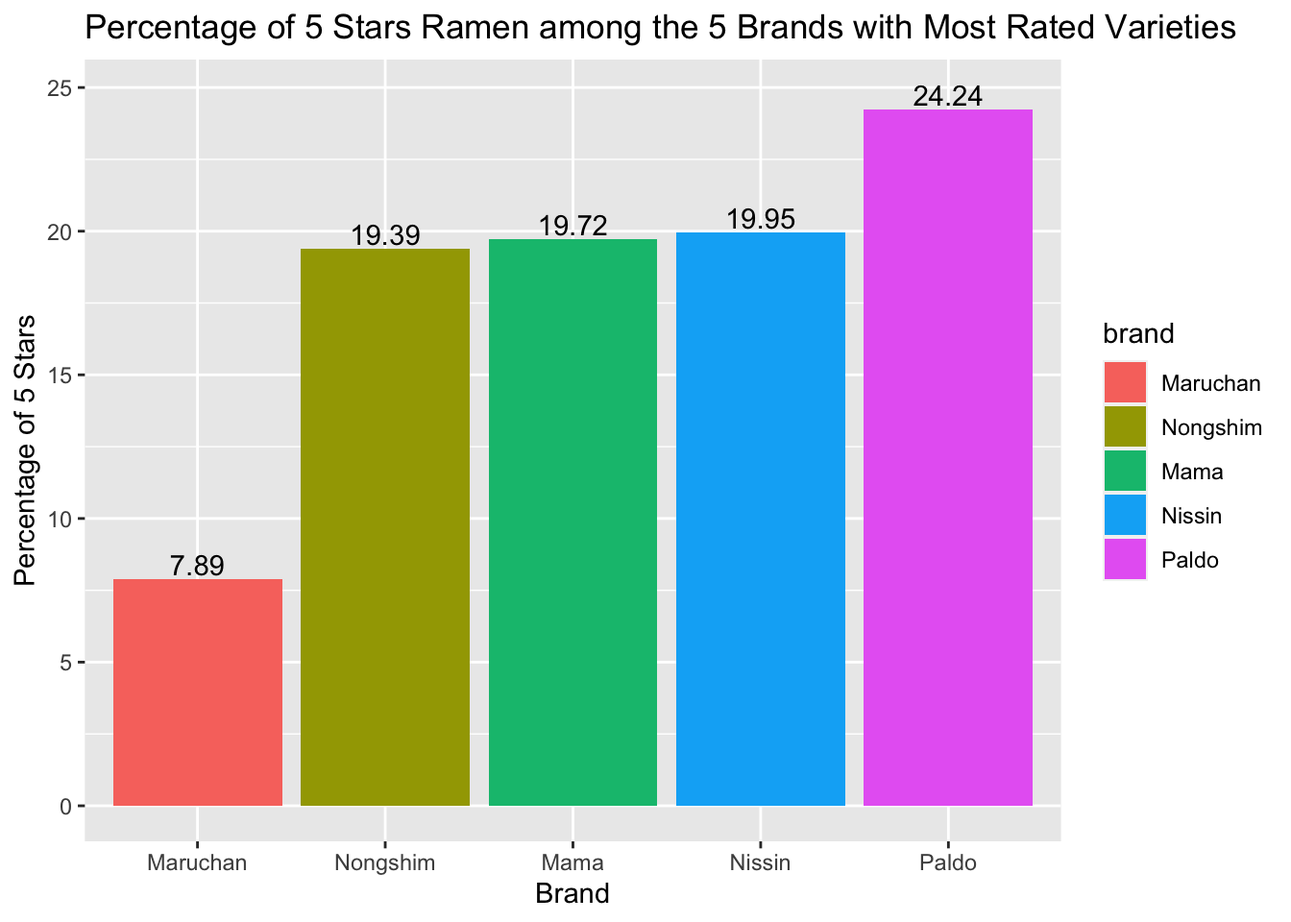
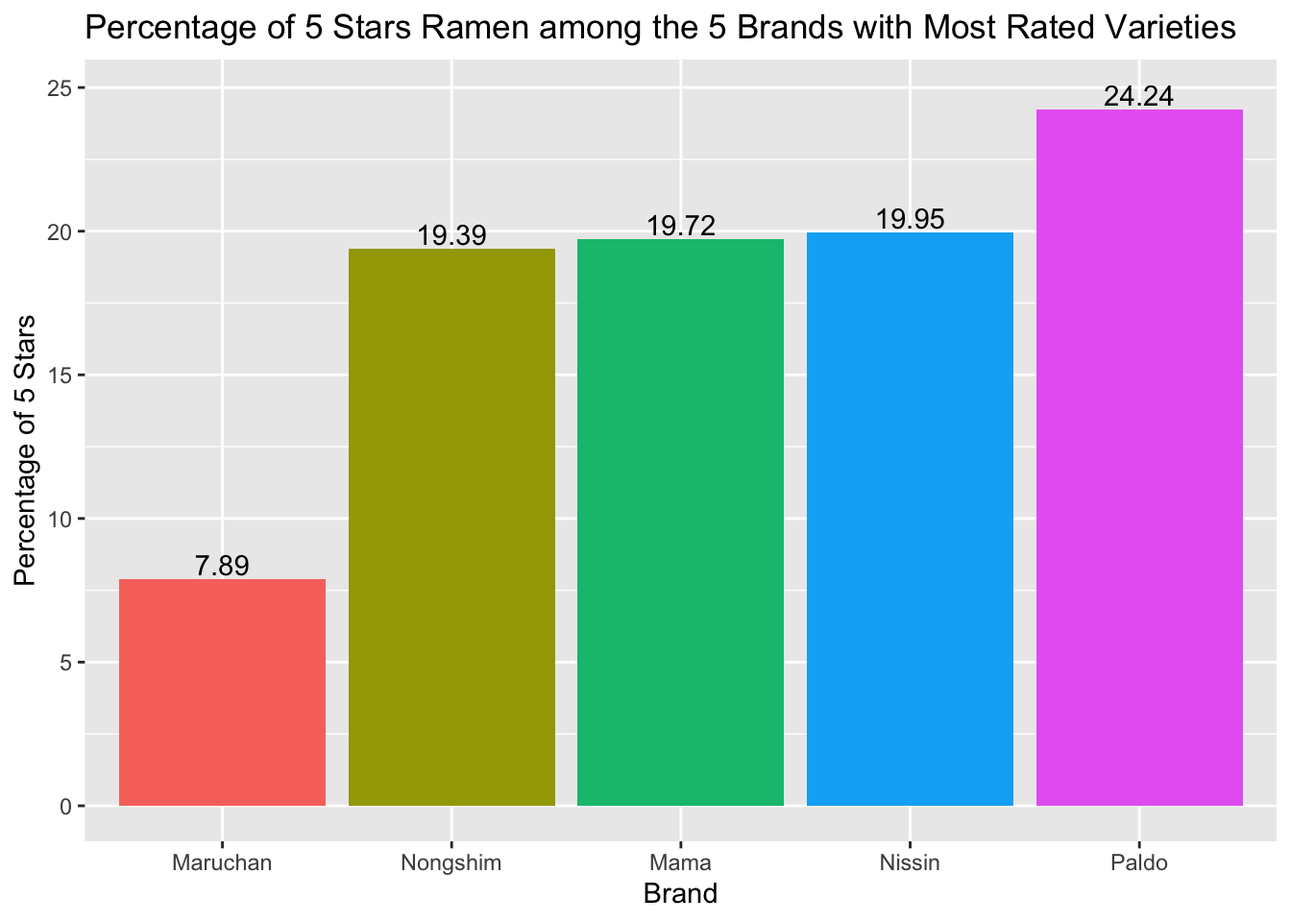
remove legends from the last two plots in brand page and rebuild

diff --git a/rating_by_brand.html b/rating_by_brand.html
@@ -404,8 +404,8 @@ div.tocify {
 </div>
 <div id="brands-with-most-rated-varieties" class="section level2">
 <h2>5 Brands with Most Rated Varieties</h2>
-<div id="htmlwidget-aca072aaa123e21b1e34" style="width:672px;height:480px;" class="plotly html-widget"></div>
-<script type="application/json" data-for="htmlwidget-aca072aaa123e21b1e34">{"x":{"visdat":{"a0930c877dd":["function () ","plotlyVisDat"]},"cur_data":"a0930c877dd","attrs":{"a0930c877dd":{"x":{},"y":{},"text":{},"marker":{"color":"viridis","line":{"color":"white","width":1.5}},"color":{},"alpha_stroke":1,"sizes":[10,100],"spans":[1,20],"type":"bar"}},"layout":{"margin":{"b":40,"l":60,"t":25,"r":10},"title":"5 Ramen Brands with Most Rated Varieties","xaxis":{"domain":[0,1],"automargin":true,"title":"Brand","type":"category","categoryorder":"array","categoryarray":["Paldo","Mama","Maruchan","Nongshim","Nissin","1 To 3 Noodles","7 Select","7 Select/Nissin","A-One","A-Sha Dry Noodle","A1","ABC","Acecook","Adabi","Ah Lai","Ajinatori","Amianda","Amino","Annie Chun's","Aroi","Asia Gold","Asian Thai Foods","Authentically Asian","Azami","Baijia","Baixiang Noodles","Baltix","Bamee","Batchelors","Binh Tay","Bon Go Jang","Bonasia","Boss","Campbell's","Cap Atoom Bulan","CarJEN","Chaudhary's Wai Wai","Chencun","Chering Chang","Chewy","Chikara","China Best","Ching's Secret","Chorip Dong","ChoripDong","Choumama","Chuan Wei Wang","Cintan","CJ CheilJedang","Conimex","Crystal Noodle","Curry Prince","Daddy","Daifuku","Daikoku","Daraz","Deshome","Doll","Dongwon","Dr. McDougall's","Dragonfly","Dream Kitchen","E-mi","E-Zee","Eat & Go","Econsave","Emart","Fantastic","Farmer's Heart","Fashion Food","Fashion Foods","FMF","Foodmon","Forest Noodles","Fortune","Four Seas","Fu Chang Chinese Noodle Company","Fuji Mengyo","Fujiwara","Fuku","GaGa","Gau Do","Gefen","GGE","Global Inspiration","Goku Uma","Goku-Uma","Golden Mie","Golden Wheat","Golden Wonder","Gomex","Good Tto Leu Foods","Great Value","GreeNoodle","GS25","Guava Story","Haioreum","Han's South Korea","Hankow","Hao Way","Happy Cook","Happy Family","Healtimie","Hi-Myon","Higashi","Higashimaru","HoMyeonDang","Hosoonyi","Hsin Tung Yang","Hua Feng","Hua Feng Noodle Expert","Ibumie","IbuRamen","ICA","Ikeda Shoku","iMee","Indomie","iNoodle","Ishimaru","Itomen","Itsuki","J.J.","Jackpot Teriyaki","JFC","Jingqi","JML","Just Way","Kabuto Noodles","Kailo","Kamfen","Kang Shi Fu","Katoz","Kiki Noodle","Kim Ve Wong","Kim's Bowl","Kimura","Kin-Dee","Knorr","Ko-Lee","Koh Thai","Koka","KOKA","Komforte Chockolates","Koyo","Kumamoto","Kuriki","La Fonte","La Moderna","Lee Fah Mee","Lele","Liang Cheng Mai","Lipton","Lishan","Lishan Food Manufacturing","Little Cook","Liu Quan","Long Jun Hang","Long Kow","Lotus Foods","Love Cook","Lucky Me!","Maggi","Maitri","MAMA","Mama Pat's","Mamee","Marutai","Master Kong","Mee Jang","Men-Sunaoshi","Menraku","Mexi-Ramen","Mi E-Zee","Mi Sedaap","Mie Sedaap","Migawon","Miliket","Miracle Noodle","Mitoku","Mom's Dry Noodle","Morre","Mr. Lee's Noodles","Mr. Noodles","Mr. Udon","Mug Shot","Mum Ngon","MyKuali","Myojo","MyOri","Nagao Noodle","Nagatanien","Nakaya Shouten","Nan Hsing","Nan Jie Cun","Nanyang Chef","New Touch","New Way","No Name","Noah Foods","Noodle Time","Nyor Nyar","O Sung","Ogasawara","Ohsung","Omachi","One Dish Asia","Oni Hot Pot","ORee Garden","Osaka Ramen","Ottogi","Oyatsu","Paldo Vina","Pama","Pamana","Papa","Patanjali","Payless","Peyang","Pirkka","Plats Du Chef","Pop Bihun","Pot Noodle","Pran","Premiere","President","President Rice","Prima","Prima Taste","Pringles","Pulmuone","Q","Qin Zong","Quickchow","Rhee Bros Assi","Right Foods","Ripe'n'Dry","Rocket Brand","Roland","Royal Umbrella","Ruski","S&S","Sahmyook","Saigon Ve Wong","Sainsbury's","Saji","Sakura Noodle","Sakurai","Sakurai Foods","Salam Mie","Samurai Ramen","Samyang","Samyang Foods","Sanpo","Sanrio","Sanyo Foods","Sao Tao","Sapporo Ichiban","Sarimi","Sau Tao","Sawadee","Sempio","Seven & I","Seven-Eleven","Shan","Shirakiku","Sichuan Baijia","Sichuan Guangyou","Singa-Me","Six Fortune","Smack","Snapdragon","Sokensha","Song Hak","Souper","Springlife","Star Anise Foods","Sugakiya Foods","Suimin","Sun Noodle","Sunlee","Sunlight","Sunny Maid","Super","Super Bihun","SuperMi","Sura","Sutah","Tablemark","Takamori","Takamori Kosan","Tao Kae Noi","Tasty Bite","Tayho","Ten-In","Teriyaki Time","Tesco","Thai Chef","Thai Choice","Thai Kitchen","Thai Pavilion","Thai Smile","The Bridge","The Kitchen Food","The Ramen Rater Select","Thien Houng Foods","Tiger","Tiger Tiger","Tokachimen Koubou","Tokushima Seifun","Tokyo Noodle","Torishi","Tradition","TRDP","Trident","Tropicana Slim","Tseng Noodles","TTL","Tung-I","Uncle Sun","Uni-President","Unif","Unif / Tung-I","Unif Tung-I","Unif-100","United","Unox","Unzen","Urban Noodle","US Canning","Ve Wong","Vedan","Vifon","Vina Acecook","Vit's","Wai Wai","Wang","Weh Lih","Wei Chuan","Wei Lih","Wei Wei","Westbrae","Western Family","World O' Noodle","Wu Mu","Wu-Mu","Wugudaochang","Xiao Ban Mian","Xiuhe","Yamachan","Yamadai","Yamamori","Yamamoto","Yum Yum","Yum-Mie","Zow Zow"]},"yaxis":{"domain":[0,1],"automargin":true,"title":"Number of Varieties"},"hovermode":"closest","showlegend":true},"source":"A","config":{"showSendToCloud":false},"data":[{"x":["Paldo"],"y":[66],"text":"Brand: Paldo<br />Number of varieties: 66","marker":{"color":"viridis","line":{"color":"white","width":1.5}},"type":"bar","name":"Paldo","textfont":{"color":"rgba(102,194,165,1)"},"error_y":{"color":"rgba(102,194,165,1)"},"error_x":{"color":"rgba(102,194,165,1)"},"xaxis":"x","yaxis":"y","frame":null},{"x":["Mama"],"y":[71],"text":"Brand: Mama<br />Number of varieties: 71","marker":{"color":"viridis","line":{"color":"white","width":1.5}},"type":"bar","name":"Mama","textfont":{"color":"rgba(107,193,164,1)"},"error_y":{"color":"rgba(107,193,164,1)"},"error_x":{"color":"rgba(107,193,164,1)"},"xaxis":"x","yaxis":"y","frame":null},{"x":["Maruchan"],"y":[76],"text":"Brand: Maruchan<br />Number of varieties: 76","marker":{"color":"viridis","line":{"color":"white","width":1.5}},"type":"bar","name":"Maruchan","textfont":{"color":"rgba(113,192,162,1)"},"error_y":{"color":"rgba(113,192,162,1)"},"error_x":{"color":"rgba(113,192,162,1)"},"xaxis":"x","yaxis":"y","frame":null},{"x":["Nongshim"],"y":[98],"text":"Brand: Nongshim<br />Number of varieties: 98","marker":{"color":"viridis","line":{"color":"white","width":1.5}},"type":"bar","name":"Nongshim","textfont":{"color":"rgba(117,192,161,1)"},"error_y":{"color":"rgba(117,192,161,1)"},"error_x":{"color":"rgba(117,192,161,1)"},"xaxis":"x","yaxis":"y","frame":null},{"x":["Nissin"],"y":[381],"text":"Brand: Nissin<br />Number of varieties: 381","marker":{"color":"viridis","line":{"color":"white","width":1.5}},"type":"bar","name":"Nissin","textfont":{"color":"rgba(122,191,160,1)"},"error_y":{"color":"rgba(122,191,160,1)"},"error_x":{"color":"rgba(122,191,160,1)"},"xaxis":"x","yaxis":"y","frame":null}],"highlight":{"on":"plotly_click","persistent":false,"dynamic":false,"selectize":false,"opacityDim":0.2,"selected":{"opacity":1},"debounce":0},"shinyEvents":["plotly_hover","plotly_click","plotly_selected","plotly_relayout","plotly_brushed","plotly_brushing","plotly_clickannotation","plotly_doubleclick","plotly_deselect","plotly_afterplot","plotly_sunburstclick"],"base_url":"https://plot.ly"},"evals":[],"jsHooks":[]}</script>
+<div id="htmlwidget-3ba4ea1fc0b1f9840647" style="width:672px;height:480px;" class="plotly html-widget"></div>
+<script type="application/json" data-for="htmlwidget-3ba4ea1fc0b1f9840647">{"x":{"visdat":{"bce3f54b81c":["function () ","plotlyVisDat"]},"cur_data":"bce3f54b81c","attrs":{"bce3f54b81c":{"x":{},"y":{},"text":{},"marker":{"color":"viridis","line":{"color":"white","width":1.5}},"color":{},"alpha_stroke":1,"sizes":[10,100],"spans":[1,20],"type":"bar"}},"layout":{"margin":{"b":40,"l":60,"t":25,"r":10},"title":"5 Ramen Brands with Most Rated Varieties","xaxis":{"domain":[0,1],"automargin":true,"title":"Brand","type":"category","categoryorder":"array","categoryarray":["Paldo","Mama","Maruchan","Nongshim","Nissin","1 To 3 Noodles","7 Select","7 Select/Nissin","A-One","A-Sha Dry Noodle","A1","ABC","Acecook","Adabi","Ah Lai","Ajinatori","Amianda","Amino","Annie Chun's","Aroi","Asia Gold","Asian Thai Foods","Authentically Asian","Azami","Baijia","Baixiang Noodles","Baltix","Bamee","Batchelors","Binh Tay","Bon Go Jang","Bonasia","Boss","Campbell's","Cap Atoom Bulan","CarJEN","Chaudhary's Wai Wai","Chencun","Chering Chang","Chewy","Chikara","China Best","Ching's Secret","Chorip Dong","ChoripDong","Choumama","Chuan Wei Wang","Cintan","CJ CheilJedang","Conimex","Crystal Noodle","Curry Prince","Daddy","Daifuku","Daikoku","Daraz","Deshome","Doll","Dongwon","Dr. McDougall's","Dragonfly","Dream Kitchen","E-mi","E-Zee","Eat & Go","Econsave","Emart","Fantastic","Farmer's Heart","Fashion Food","Fashion Foods","FMF","Foodmon","Forest Noodles","Fortune","Four Seas","Fu Chang Chinese Noodle Company","Fuji Mengyo","Fujiwara","Fuku","GaGa","Gau Do","Gefen","GGE","Global Inspiration","Goku Uma","Goku-Uma","Golden Mie","Golden Wheat","Golden Wonder","Gomex","Good Tto Leu Foods","Great Value","GreeNoodle","GS25","Guava Story","Haioreum","Han's South Korea","Hankow","Hao Way","Happy Cook","Happy Family","Healtimie","Hi-Myon","Higashi","Higashimaru","HoMyeonDang","Hosoonyi","Hsin Tung Yang","Hua Feng","Hua Feng Noodle Expert","Ibumie","IbuRamen","ICA","Ikeda Shoku","iMee","Indomie","iNoodle","Ishimaru","Itomen","Itsuki","J.J.","Jackpot Teriyaki","JFC","Jingqi","JML","Just Way","Kabuto Noodles","Kailo","Kamfen","Kang Shi Fu","Katoz","Kiki Noodle","Kim Ve Wong","Kim's Bowl","Kimura","Kin-Dee","Knorr","Ko-Lee","Koh Thai","Koka","KOKA","Komforte Chockolates","Koyo","Kumamoto","Kuriki","La Fonte","La Moderna","Lee Fah Mee","Lele","Liang Cheng Mai","Lipton","Lishan","Lishan Food Manufacturing","Little Cook","Liu Quan","Long Jun Hang","Long Kow","Lotus Foods","Love Cook","Lucky Me!","Maggi","Maitri","MAMA","Mama Pat's","Mamee","Marutai","Master Kong","Mee Jang","Men-Sunaoshi","Menraku","Mexi-Ramen","Mi E-Zee","Mi Sedaap","Mie Sedaap","Migawon","Miliket","Miracle Noodle","Mitoku","Mom's Dry Noodle","Morre","Mr. Lee's Noodles","Mr. Noodles","Mr. Udon","Mug Shot","Mum Ngon","MyKuali","Myojo","MyOri","Nagao Noodle","Nagatanien","Nakaya Shouten","Nan Hsing","Nan Jie Cun","Nanyang Chef","New Touch","New Way","No Name","Noah Foods","Noodle Time","Nyor Nyar","O Sung","Ogasawara","Ohsung","Omachi","One Dish Asia","Oni Hot Pot","ORee Garden","Osaka Ramen","Ottogi","Oyatsu","Paldo Vina","Pama","Pamana","Papa","Patanjali","Payless","Peyang","Pirkka","Plats Du Chef","Pop Bihun","Pot Noodle","Pran","Premiere","President","President Rice","Prima","Prima Taste","Pringles","Pulmuone","Q","Qin Zong","Quickchow","Rhee Bros Assi","Right Foods","Ripe'n'Dry","Rocket Brand","Roland","Royal Umbrella","Ruski","S&S","Sahmyook","Saigon Ve Wong","Sainsbury's","Saji","Sakura Noodle","Sakurai","Sakurai Foods","Salam Mie","Samurai Ramen","Samyang","Samyang Foods","Sanpo","Sanrio","Sanyo Foods","Sao Tao","Sapporo Ichiban","Sarimi","Sau Tao","Sawadee","Sempio","Seven & I","Seven-Eleven","Shan","Shirakiku","Sichuan Baijia","Sichuan Guangyou","Singa-Me","Six Fortune","Smack","Snapdragon","Sokensha","Song Hak","Souper","Springlife","Star Anise Foods","Sugakiya Foods","Suimin","Sun Noodle","Sunlee","Sunlight","Sunny Maid","Super","Super Bihun","SuperMi","Sura","Sutah","Tablemark","Takamori","Takamori Kosan","Tao Kae Noi","Tasty Bite","Tayho","Ten-In","Teriyaki Time","Tesco","Thai Chef","Thai Choice","Thai Kitchen","Thai Pavilion","Thai Smile","The Bridge","The Kitchen Food","The Ramen Rater Select","Thien Houng Foods","Tiger","Tiger Tiger","Tokachimen Koubou","Tokushima Seifun","Tokyo Noodle","Torishi","Tradition","TRDP","Trident","Tropicana Slim","Tseng Noodles","TTL","Tung-I","Uncle Sun","Uni-President","Unif","Unif / Tung-I","Unif Tung-I","Unif-100","United","Unox","Unzen","Urban Noodle","US Canning","Ve Wong","Vedan","Vifon","Vina Acecook","Vit's","Wai Wai","Wang","Weh Lih","Wei Chuan","Wei Lih","Wei Wei","Westbrae","Western Family","World O' Noodle","Wu Mu","Wu-Mu","Wugudaochang","Xiao Ban Mian","Xiuhe","Yamachan","Yamadai","Yamamori","Yamamoto","Yum Yum","Yum-Mie","Zow Zow"]},"yaxis":{"domain":[0,1],"automargin":true,"title":"Number of Varieties"},"hovermode":"closest","showlegend":true},"source":"A","config":{"showSendToCloud":false},"data":[{"x":["Paldo"],"y":[66],"text":"Brand: Paldo<br />Number of varieties: 66","marker":{"color":"viridis","line":{"color":"white","width":1.5}},"type":"bar","name":"Paldo","textfont":{"color":"rgba(102,194,165,1)"},"error_y":{"color":"rgba(102,194,165,1)"},"error_x":{"color":"rgba(102,194,165,1)"},"xaxis":"x","yaxis":"y","frame":null},{"x":["Mama"],"y":[71],"text":"Brand: Mama<br />Number of varieties: 71","marker":{"color":"viridis","line":{"color":"white","width":1.5}},"type":"bar","name":"Mama","textfont":{"color":"rgba(107,193,164,1)"},"error_y":{"color":"rgba(107,193,164,1)"},"error_x":{"color":"rgba(107,193,164,1)"},"xaxis":"x","yaxis":"y","frame":null},{"x":["Maruchan"],"y":[76],"text":"Brand: Maruchan<br />Number of varieties: 76","marker":{"color":"viridis","line":{"color":"white","width":1.5}},"type":"bar","name":"Maruchan","textfont":{"color":"rgba(113,192,162,1)"},"error_y":{"color":"rgba(113,192,162,1)"},"error_x":{"color":"rgba(113,192,162,1)"},"xaxis":"x","yaxis":"y","frame":null},{"x":["Nongshim"],"y":[98],"text":"Brand: Nongshim<br />Number of varieties: 98","marker":{"color":"viridis","line":{"color":"white","width":1.5}},"type":"bar","name":"Nongshim","textfont":{"color":"rgba(117,192,161,1)"},"error_y":{"color":"rgba(117,192,161,1)"},"error_x":{"color":"rgba(117,192,161,1)"},"xaxis":"x","yaxis":"y","frame":null},{"x":["Nissin"],"y":[381],"text":"Brand: Nissin<br />Number of varieties: 381","marker":{"color":"viridis","line":{"color":"white","width":1.5}},"type":"bar","name":"Nissin","textfont":{"color":"rgba(122,191,160,1)"},"error_y":{"color":"rgba(122,191,160,1)"},"error_x":{"color":"rgba(122,191,160,1)"},"xaxis":"x","yaxis":"y","frame":null}],"highlight":{"on":"plotly_click","persistent":false,"dynamic":false,"selectize":false,"opacityDim":0.2,"selected":{"opacity":1},"debounce":0},"shinyEvents":["plotly_hover","plotly_click","plotly_selected","plotly_relayout","plotly_brushed","plotly_brushing","plotly_clickannotation","plotly_doubleclick","plotly_deselect","plotly_afterplot","plotly_sunburstclick"],"base_url":"https://plot.ly"},"evals":[],"jsHooks":[]}</script>
 <p>As shown in the above plot, <em>Nissin</em> is the winner with 381 ramen varieties rated. The second to fifth brands are <em>Nongshim</em>, <em>Maruchan</em>, <em>Mama</em>, and <em>Paldo</em>. Each of them has about 60 to 100 ramen varieties rated.</p>
 <div id="distribution-of-rating-stars" class="section level3">
 <h3>Distribution of Rating Stars</h3>

diff --git a/rating_by_country.html b/rating_by_country.html
@@ -422,8 +422,8 @@ div.tocify {
 <p>From the scatter plot, we can see that the average stars for countries with fewer varieties rated are more diverse and include more extreme values, while those for countries with more varieties rated are more concentrated around or within 3.5 to 4.0.</p>
 <p>Since we believe that we need enough sample size for a meaningful average rating, we’ll focus on countries with 30 or more varieties rated in the following analysis.</p>
 <p>Here is the result!<br />
-(NOTE: Check out the average rating score for each country by moving your mouse over each bar) <div id="htmlwidget-f87fcae7ad846b518938" style="width:672px;height:480px;" class="plotly html-widget"></div>
-<script type="application/json" data-for="htmlwidget-f87fcae7ad846b518938">{"x":{"visdat":{"a09510a4f61":["function () ","plotlyVisDat"]},"cur_data":"a09510a4f61","attrs":{"a09510a4f61":{"x":{},"y":{},"text":{},"color":{},"alpha_stroke":1,"sizes":[10,100],"spans":[1,20],"type":"bar"}},"layout":{"margin":{"b":40,"l":60,"t":25,"r":10},"title":"Average stars for each country with 30 or more varieties rated","xaxis":{"domain":[0,1],"automargin":true,"title":"Country","type":"category","categoryorder":"array","categoryarray":["Canada","UK","Vietnam","Philippines","Thailand","India","USA","China","South Korea","Japan","Indonesia","Singapore","Malaysia","Australia","Bangladesh","Brazil","Cambodia","Colombia","Dubai","Estonia","Fiji","Finland","Germany","Ghana","Holland","Hungary","Mexico","Myanmar","Nepal","Netherlands","Nigeria","Pakistan","Poland","Sarawak","Sweden","United States"]},"yaxis":{"domain":[0,1],"automargin":true,"title":"Average stars"},"hovermode":"closest","showlegend":true},"source":"A","config":{"showSendToCloud":false},"data":[{"x":["Canada"],"y":[2.24],"text":"Country: Canada<br />Average Stars: 2.24","type":"bar","name":"Canada","marker":{"color":"rgba(102,194,165,1)","line":{"color":"rgba(102,194,165,1)"}},"textfont":{"color":"rgba(102,194,165,1)"},"error_y":{"color":"rgba(102,194,165,1)"},"error_x":{"color":"rgba(102,194,165,1)"},"xaxis":"x","yaxis":"y","frame":null},{"x":["UK"],"y":[3],"text":"Country: UK<br />Average Stars: 3","type":"bar","name":"UK","marker":{"color":"rgba(147,186,151,1)","line":{"color":"rgba(147,186,151,1)"}},"textfont":{"color":"rgba(147,186,151,1)"},"error_y":{"color":"rgba(147,186,151,1)"},"error_x":{"color":"rgba(147,186,151,1)"},"xaxis":"x","yaxis":"y","frame":null},{"x":["Vietnam"],"y":[3.19],"text":"Country: Vietnam<br />Average Stars: 3.19","type":"bar","name":"Vietnam","marker":{"color":"rgba(179,176,138,1)","line":{"color":"rgba(179,176,138,1)"}},"textfont":{"color":"rgba(179,176,138,1)"},"error_y":{"color":"rgba(179,176,138,1)"},"error_x":{"color":"rgba(179,176,138,1)"},"xaxis":"x","yaxis":"y","frame":null},{"x":["Philippines"],"y":[3.33],"text":"Country: Philippines<br />Average Stars: 3.33","type":"bar","name":"Philippines","marker":{"color":"rgba(207,166,125,1)","line":{"color":"rgba(207,166,125,1)"}},"textfont":{"color":"rgba(207,166,125,1)"},"error_y":{"color":"rgba(207,166,125,1)"},"error_x":{"color":"rgba(207,166,125,1)"},"xaxis":"x","yaxis":"y","frame":null},{"x":["Thailand"],"y":[3.38],"text":"Country: Thailand<br />Average Stars: 3.38","type":"bar","name":"Thailand","marker":{"color":"rgba(230,155,111,1)","line":{"color":"rgba(230,155,111,1)"}},"textfont":{"color":"rgba(230,155,111,1)"},"error_y":{"color":"rgba(230,155,111,1)"},"error_x":{"color":"rgba(230,155,111,1)"},"xaxis":"x","yaxis":"y","frame":null},{"x":["India"],"y":[3.4],"text":"Country: India<br />Average Stars: 3.4","type":"bar","name":"India","marker":{"color":"rgba(252,141,98,1)","line":{"color":"rgba(252,141,98,1)"}},"textfont":{"color":"rgba(252,141,98,1)"},"error_y":{"color":"rgba(252,141,98,1)"},"error_x":{"color":"rgba(252,141,98,1)"},"xaxis":"x","yaxis":"y","frame":null},{"x":["USA"],"y":[3.46],"text":"Country: USA<br />Average Stars: 3.46","type":"bar","name":"USA","marker":{"color":"rgba(235,145,120,1)","line":{"color":"rgba(235,145,120,1)"}},"textfont":{"color":"rgba(235,145,120,1)"},"error_y":{"color":"rgba(235,145,120,1)"},"error_x":{"color":"rgba(235,145,120,1)"},"xaxis":"x","yaxis":"y","frame":null},{"x":["China"],"y":[3.62],"text":"Country: China<br />Average Stars: 3.62","type":"bar","name":"China","marker":{"color":"rgba(217,150,141,1)","line":{"color":"rgba(217,150,141,1)"}},"textfont":{"color":"rgba(217,150,141,1)"},"error_y":{"color":"rgba(217,150,141,1)"},"error_x":{"color":"rgba(217,150,141,1)"},"xaxis":"x","yaxis":"y","frame":null},{"x":["South Korea"],"y":[3.79],"text":"Country: South Korea<br />Average Stars: 3.79","type":"bar","name":"South Korea","marker":{"color":"rgba(196,153,161,1)","line":{"color":"rgba(196,153,161,1)"}},"textfont":{"color":"rgba(196,153,161,1)"},"error_y":{"color":"rgba(196,153,161,1)"},"error_x":{"color":"rgba(196,153,161,1)"},"xaxis":"x","yaxis":"y","frame":null},{"x":["Japan"],"y":[3.98],"text":"Country: Japan<br />Average Stars: 3.98","type":"bar","name":"Japan","marker":{"color":"rgba(172,157,182,1)","line":{"color":"rgba(172,157,182,1)"}},"textfont":{"color":"rgba(172,157,182,1)"},"error_y":{"color":"rgba(172,157,182,1)"},"error_x":{"color":"rgba(172,157,182,1)"},"xaxis":"x","yaxis":"y","frame":null},{"x":["Indonesia"],"y":[4.07],"text":"Country: Indonesia<br />Average Stars: 4.07","type":"bar","name":"Indonesia","marker":{"color":"rgba(141,160,203,1)","line":{"color":"rgba(141,160,203,1)"}},"textfont":{"color":"rgba(141,160,203,1)"},"error_y":{"color":"rgba(141,160,203,1)"},"error_x":{"color":"rgba(141,160,203,1)"},"xaxis":"x","yaxis":"y","frame":null},{"x":["Singapore"],"y":[4.13],"text":"Country: Singapore<br />Average Stars: 4.13","type":"bar","name":"Singapore","marker":{"color":"rgba(162,157,201,1)","line":{"color":"rgba(162,157,201,1)"}},"textfont":{"color":"rgba(162,157,201,1)"},"error_y":{"color":"rgba(162,157,201,1)"},"error_x":{"color":"rgba(162,157,201,1)"},"xaxis":"x","yaxis":"y","frame":null},{"x":["Malaysia"],"y":[4.15],"text":"Country: Malaysia<br />Average Stars: 4.15","type":"bar","name":"Malaysia","marker":{"color":"rgba(181,153,200,1)","line":{"color":"rgba(181,153,200,1)"}},"textfont":{"color":"rgba(181,153,200,1)"},"error_y":{"color":"rgba(181,153,200,1)"},"error_x":{"color":"rgba(181,153,200,1)"},"xaxis":"x","yaxis":"y","frame":null}],"highlight":{"on":"plotly_click","persistent":false,"dynamic":false,"selectize":false,"opacityDim":0.2,"selected":{"opacity":1},"debounce":0},"shinyEvents":["plotly_hover","plotly_click","plotly_selected","plotly_relayout","plotly_brushed","plotly_brushing","plotly_clickannotation","plotly_doubleclick","plotly_deselect","plotly_afterplot","plotly_sunburstclick"],"base_url":"https://plot.ly"},"evals":[],"jsHooks":[]}</script></p>
+(NOTE: Check out the average rating score for each country by moving your mouse over each bar) <div id="htmlwidget-a627e1eee2f4b8b53a82" style="width:672px;height:480px;" class="plotly html-widget"></div>
+<script type="application/json" data-for="htmlwidget-a627e1eee2f4b8b53a82">{"x":{"visdat":{"bce68bcd826":["function () ","plotlyVisDat"]},"cur_data":"bce68bcd826","attrs":{"bce68bcd826":{"x":{},"y":{},"text":{},"color":{},"alpha_stroke":1,"sizes":[10,100],"spans":[1,20],"type":"bar"}},"layout":{"margin":{"b":40,"l":60,"t":25,"r":10},"title":"Average stars for each country with 30 or more varieties rated","xaxis":{"domain":[0,1],"automargin":true,"title":"Country","type":"category","categoryorder":"array","categoryarray":["Canada","UK","Vietnam","Philippines","Thailand","India","USA","China","South Korea","Japan","Indonesia","Singapore","Malaysia","Australia","Bangladesh","Brazil","Cambodia","Colombia","Dubai","Estonia","Fiji","Finland","Germany","Ghana","Holland","Hungary","Mexico","Myanmar","Nepal","Netherlands","Nigeria","Pakistan","Poland","Sarawak","Sweden","United States"]},"yaxis":{"domain":[0,1],"automargin":true,"title":"Average stars"},"hovermode":"closest","showlegend":true},"source":"A","config":{"showSendToCloud":false},"data":[{"x":["Canada"],"y":[2.24],"text":"Country: Canada<br />Average Stars: 2.24","type":"bar","name":"Canada","marker":{"color":"rgba(102,194,165,1)","line":{"color":"rgba(102,194,165,1)"}},"textfont":{"color":"rgba(102,194,165,1)"},"error_y":{"color":"rgba(102,194,165,1)"},"error_x":{"color":"rgba(102,194,165,1)"},"xaxis":"x","yaxis":"y","frame":null},{"x":["UK"],"y":[3],"text":"Country: UK<br />Average Stars: 3","type":"bar","name":"UK","marker":{"color":"rgba(147,186,151,1)","line":{"color":"rgba(147,186,151,1)"}},"textfont":{"color":"rgba(147,186,151,1)"},"error_y":{"color":"rgba(147,186,151,1)"},"error_x":{"color":"rgba(147,186,151,1)"},"xaxis":"x","yaxis":"y","frame":null},{"x":["Vietnam"],"y":[3.19],"text":"Country: Vietnam<br />Average Stars: 3.19","type":"bar","name":"Vietnam","marker":{"color":"rgba(179,176,138,1)","line":{"color":"rgba(179,176,138,1)"}},"textfont":{"color":"rgba(179,176,138,1)"},"error_y":{"color":"rgba(179,176,138,1)"},"error_x":{"color":"rgba(179,176,138,1)"},"xaxis":"x","yaxis":"y","frame":null},{"x":["Philippines"],"y":[3.33],"text":"Country: Philippines<br />Average Stars: 3.33","type":"bar","name":"Philippines","marker":{"color":"rgba(207,166,125,1)","line":{"color":"rgba(207,166,125,1)"}},"textfont":{"color":"rgba(207,166,125,1)"},"error_y":{"color":"rgba(207,166,125,1)"},"error_x":{"color":"rgba(207,166,125,1)"},"xaxis":"x","yaxis":"y","frame":null},{"x":["Thailand"],"y":[3.38],"text":"Country: Thailand<br />Average Stars: 3.38","type":"bar","name":"Thailand","marker":{"color":"rgba(230,155,111,1)","line":{"color":"rgba(230,155,111,1)"}},"textfont":{"color":"rgba(230,155,111,1)"},"error_y":{"color":"rgba(230,155,111,1)"},"error_x":{"color":"rgba(230,155,111,1)"},"xaxis":"x","yaxis":"y","frame":null},{"x":["India"],"y":[3.4],"text":"Country: India<br />Average Stars: 3.4","type":"bar","name":"India","marker":{"color":"rgba(252,141,98,1)","line":{"color":"rgba(252,141,98,1)"}},"textfont":{"color":"rgba(252,141,98,1)"},"error_y":{"color":"rgba(252,141,98,1)"},"error_x":{"color":"rgba(252,141,98,1)"},"xaxis":"x","yaxis":"y","frame":null},{"x":["USA"],"y":[3.46],"text":"Country: USA<br />Average Stars: 3.46","type":"bar","name":"USA","marker":{"color":"rgba(235,145,120,1)","line":{"color":"rgba(235,145,120,1)"}},"textfont":{"color":"rgba(235,145,120,1)"},"error_y":{"color":"rgba(235,145,120,1)"},"error_x":{"color":"rgba(235,145,120,1)"},"xaxis":"x","yaxis":"y","frame":null},{"x":["China"],"y":[3.62],"text":"Country: China<br />Average Stars: 3.62","type":"bar","name":"China","marker":{"color":"rgba(217,150,141,1)","line":{"color":"rgba(217,150,141,1)"}},"textfont":{"color":"rgba(217,150,141,1)"},"error_y":{"color":"rgba(217,150,141,1)"},"error_x":{"color":"rgba(217,150,141,1)"},"xaxis":"x","yaxis":"y","frame":null},{"x":["South Korea"],"y":[3.79],"text":"Country: South Korea<br />Average Stars: 3.79","type":"bar","name":"South Korea","marker":{"color":"rgba(196,153,161,1)","line":{"color":"rgba(196,153,161,1)"}},"textfont":{"color":"rgba(196,153,161,1)"},"error_y":{"color":"rgba(196,153,161,1)"},"error_x":{"color":"rgba(196,153,161,1)"},"xaxis":"x","yaxis":"y","frame":null},{"x":["Japan"],"y":[3.98],"text":"Country: Japan<br />Average Stars: 3.98","type":"bar","name":"Japan","marker":{"color":"rgba(172,157,182,1)","line":{"color":"rgba(172,157,182,1)"}},"textfont":{"color":"rgba(172,157,182,1)"},"error_y":{"color":"rgba(172,157,182,1)"},"error_x":{"color":"rgba(172,157,182,1)"},"xaxis":"x","yaxis":"y","frame":null},{"x":["Indonesia"],"y":[4.07],"text":"Country: Indonesia<br />Average Stars: 4.07","type":"bar","name":"Indonesia","marker":{"color":"rgba(141,160,203,1)","line":{"color":"rgba(141,160,203,1)"}},"textfont":{"color":"rgba(141,160,203,1)"},"error_y":{"color":"rgba(141,160,203,1)"},"error_x":{"color":"rgba(141,160,203,1)"},"xaxis":"x","yaxis":"y","frame":null},{"x":["Singapore"],"y":[4.13],"text":"Country: Singapore<br />Average Stars: 4.13","type":"bar","name":"Singapore","marker":{"color":"rgba(162,157,201,1)","line":{"color":"rgba(162,157,201,1)"}},"textfont":{"color":"rgba(162,157,201,1)"},"error_y":{"color":"rgba(162,157,201,1)"},"error_x":{"color":"rgba(162,157,201,1)"},"xaxis":"x","yaxis":"y","frame":null},{"x":["Malaysia"],"y":[4.15],"text":"Country: Malaysia<br />Average Stars: 4.15","type":"bar","name":"Malaysia","marker":{"color":"rgba(181,153,200,1)","line":{"color":"rgba(181,153,200,1)"}},"textfont":{"color":"rgba(181,153,200,1)"},"error_y":{"color":"rgba(181,153,200,1)"},"error_x":{"color":"rgba(181,153,200,1)"},"xaxis":"x","yaxis":"y","frame":null}],"highlight":{"on":"plotly_click","persistent":false,"dynamic":false,"selectize":false,"opacityDim":0.2,"selected":{"opacity":1},"debounce":0},"shinyEvents":["plotly_hover","plotly_click","plotly_selected","plotly_relayout","plotly_brushed","plotly_brushing","plotly_clickannotation","plotly_doubleclick","plotly_deselect","plotly_afterplot","plotly_sunburstclick"],"base_url":"https://plot.ly"},"evals":[],"jsHooks":[]}</script></p>
 <p>Does the result differ from your expectation? Among countries with 30 or more varieties rated, it appears that the top 3 average rating countries have average rating scores around 4.1 out of 5 stars. Malaysia had the highest average rating score (4.15 out of 5) among all countries, followed by Singapore (4.13 out of 5) and Indonesia (4.07 out of 5). These countries produced ramens with higher quality (better taste) despite that they were not the top ramen producers in varieties.<br />
 On the contrary, bottom 3 average rating countries are Canada (2.24 out of 5), UK (3 out of 5), and Vietnam (3.19 out of 5).</p>
 </div>

diff --git a/by_type.html b/by_type.html
@@ -401,8 +401,8 @@ div.tocify {
 </div>
 <div id="counts-of-ramens-by-style" class="section level2">
 <h2>Counts of Ramens by Style</h2>
-<p>Now let’s check the counts of ramens included in each style. <div id="htmlwidget-95b39b730742018a627e" style="width:672px;height:480px;" class="plotly html-widget"></div>
-<script type="application/json" data-for="htmlwidget-95b39b730742018a627e">{"x":{"visdat":{"a09307b1bd8":["function () ","plotlyVisDat"]},"cur_data":"a09307b1bd8","attrs":{"a09307b1bd8":{"x":{},"y":{},"text":{},"textposition":"auto","marker":{"color":"viridis","line":{"color":"viridis","width":1.5}},"color":{},"alpha_stroke":1,"sizes":[10,100],"spans":[1,20],"type":"bar"}},"layout":{"margin":{"b":40,"l":60,"t":25,"r":10},"title":"Most common packing of ramen","xaxis":{"domain":[0,1],"automargin":true,"title":"Styles","type":"category","categoryorder":"array","categoryarray":["Bar","Can","Box","Tray","Cup","Bowl","Pack"]},"yaxis":{"domain":[0,1],"automargin":true,"title":"Number of Product"},"hovermode":"closest","showlegend":true},"source":"A","config":{"showSendToCloud":false},"data":[{"x":["Bar"],"y":[1],"text":1,"textposition":"auto","marker":{"color":"viridis","line":{"color":"viridis","width":1.5}},"type":"bar","name":"Bar","textfont":{"color":"rgba(102,194,165,1)"},"error_y":{"color":"rgba(102,194,165,1)"},"error_x":{"color":"rgba(102,194,165,1)"},"xaxis":"x","yaxis":"y","frame":null},{"x":["Can"],"y":[1],"text":1,"textposition":"auto","marker":{"color":"viridis","line":{"color":"viridis","width":1.5}},"type":"bar","name":"Can","textfont":{"color":"rgba(252,141,98,1)"},"error_y":{"color":"rgba(252,141,98,1)"},"error_x":{"color":"rgba(252,141,98,1)"},"xaxis":"x","yaxis":"y","frame":null},{"x":["Box"],"y":[6],"text":6,"textposition":"auto","marker":{"color":"viridis","line":{"color":"viridis","width":1.5}},"type":"bar","name":"Box","textfont":{"color":"rgba(141,160,203,1)"},"error_y":{"color":"rgba(141,160,203,1)"},"error_x":{"color":"rgba(141,160,203,1)"},"xaxis":"x","yaxis":"y","frame":null},{"x":["Tray"],"y":[108],"text":108,"textposition":"auto","marker":{"color":"viridis","line":{"color":"viridis","width":1.5}},"type":"bar","name":"Tray","textfont":{"color":"rgba(231,138,195,1)"},"error_y":{"color":"rgba(231,138,195,1)"},"error_x":{"color":"rgba(231,138,195,1)"},"xaxis":"x","yaxis":"y","frame":null},{"x":["Cup"],"y":[450],"text":450,"textposition":"auto","marker":{"color":"viridis","line":{"color":"viridis","width":1.5}},"type":"bar","name":"Cup","textfont":{"color":"rgba(166,216,84,1)"},"error_y":{"color":"rgba(166,216,84,1)"},"error_x":{"color":"rgba(166,216,84,1)"},"xaxis":"x","yaxis":"y","frame":null},{"x":["Bowl"],"y":[481],"text":481,"textposition":"auto","marker":{"color":"viridis","line":{"color":"viridis","width":1.5}},"type":"bar","name":"Bowl","textfont":{"color":"rgba(255,217,47,1)"},"error_y":{"color":"rgba(255,217,47,1)"},"error_x":{"color":"rgba(255,217,47,1)"},"xaxis":"x","yaxis":"y","frame":null},{"x":["Pack"],"y":[1531],"text":1531,"textposition":"auto","marker":{"color":"viridis","line":{"color":"viridis","width":1.5}},"type":"bar","name":"Pack","textfont":{"color":"rgba(229,196,148,1)"},"error_y":{"color":"rgba(229,196,148,1)"},"error_x":{"color":"rgba(229,196,148,1)"},"xaxis":"x","yaxis":"y","frame":null}],"highlight":{"on":"plotly_click","persistent":false,"dynamic":false,"selectize":false,"opacityDim":0.2,"selected":{"opacity":1},"debounce":0},"shinyEvents":["plotly_hover","plotly_click","plotly_selected","plotly_relayout","plotly_brushed","plotly_brushing","plotly_clickannotation","plotly_doubleclick","plotly_deselect","plotly_afterplot","plotly_sunburstclick"],"base_url":"https://plot.ly"},"evals":[],"jsHooks":[]}</script></p>
+<p>Now let’s check the counts of ramens included in each style. <div id="htmlwidget-d80c890e2c2f381dbcb6" style="width:672px;height:480px;" class="plotly html-widget"></div>
+<script type="application/json" data-for="htmlwidget-d80c890e2c2f381dbcb6">{"x":{"visdat":{"bce49a49aed":["function () ","plotlyVisDat"]},"cur_data":"bce49a49aed","attrs":{"bce49a49aed":{"x":{},"y":{},"text":{},"textposition":"auto","marker":{"color":"viridis","line":{"color":"viridis","width":1.5}},"color":{},"alpha_stroke":1,"sizes":[10,100],"spans":[1,20],"type":"bar"}},"layout":{"margin":{"b":40,"l":60,"t":25,"r":10},"title":"Most common packing of ramen","xaxis":{"domain":[0,1],"automargin":true,"title":"Styles","type":"category","categoryorder":"array","categoryarray":["Bar","Can","Box","Tray","Cup","Bowl","Pack"]},"yaxis":{"domain":[0,1],"automargin":true,"title":"Number of Product"},"hovermode":"closest","showlegend":true},"source":"A","config":{"showSendToCloud":false},"data":[{"x":["Bar"],"y":[1],"text":1,"textposition":"auto","marker":{"color":"viridis","line":{"color":"viridis","width":1.5}},"type":"bar","name":"Bar","textfont":{"color":"rgba(102,194,165,1)"},"error_y":{"color":"rgba(102,194,165,1)"},"error_x":{"color":"rgba(102,194,165,1)"},"xaxis":"x","yaxis":"y","frame":null},{"x":["Can"],"y":[1],"text":1,"textposition":"auto","marker":{"color":"viridis","line":{"color":"viridis","width":1.5}},"type":"bar","name":"Can","textfont":{"color":"rgba(252,141,98,1)"},"error_y":{"color":"rgba(252,141,98,1)"},"error_x":{"color":"rgba(252,141,98,1)"},"xaxis":"x","yaxis":"y","frame":null},{"x":["Box"],"y":[6],"text":6,"textposition":"auto","marker":{"color":"viridis","line":{"color":"viridis","width":1.5}},"type":"bar","name":"Box","textfont":{"color":"rgba(141,160,203,1)"},"error_y":{"color":"rgba(141,160,203,1)"},"error_x":{"color":"rgba(141,160,203,1)"},"xaxis":"x","yaxis":"y","frame":null},{"x":["Tray"],"y":[108],"text":108,"textposition":"auto","marker":{"color":"viridis","line":{"color":"viridis","width":1.5}},"type":"bar","name":"Tray","textfont":{"color":"rgba(231,138,195,1)"},"error_y":{"color":"rgba(231,138,195,1)"},"error_x":{"color":"rgba(231,138,195,1)"},"xaxis":"x","yaxis":"y","frame":null},{"x":["Cup"],"y":[450],"text":450,"textposition":"auto","marker":{"color":"viridis","line":{"color":"viridis","width":1.5}},"type":"bar","name":"Cup","textfont":{"color":"rgba(166,216,84,1)"},"error_y":{"color":"rgba(166,216,84,1)"},"error_x":{"color":"rgba(166,216,84,1)"},"xaxis":"x","yaxis":"y","frame":null},{"x":["Bowl"],"y":[481],"text":481,"textposition":"auto","marker":{"color":"viridis","line":{"color":"viridis","width":1.5}},"type":"bar","name":"Bowl","textfont":{"color":"rgba(255,217,47,1)"},"error_y":{"color":"rgba(255,217,47,1)"},"error_x":{"color":"rgba(255,217,47,1)"},"xaxis":"x","yaxis":"y","frame":null},{"x":["Pack"],"y":[1531],"text":1531,"textposition":"auto","marker":{"color":"viridis","line":{"color":"viridis","width":1.5}},"type":"bar","name":"Pack","textfont":{"color":"rgba(229,196,148,1)"},"error_y":{"color":"rgba(229,196,148,1)"},"error_x":{"color":"rgba(229,196,148,1)"},"xaxis":"x","yaxis":"y","frame":null}],"highlight":{"on":"plotly_click","persistent":false,"dynamic":false,"selectize":false,"opacityDim":0.2,"selected":{"opacity":1},"debounce":0},"shinyEvents":["plotly_hover","plotly_click","plotly_selected","plotly_relayout","plotly_brushed","plotly_brushing","plotly_clickannotation","plotly_doubleclick","plotly_deselect","plotly_afterplot","plotly_sunburstclick"],"base_url":"https://plot.ly"},"evals":[],"jsHooks":[]}</script></p>
 <p>We see that the most common style of packaging is Pack ramen. The median of rating for Tray, Cup, Can, Pack, Bowl ramens are similar (around 3.7 stars). The median of Bar and Box ramen has the highest rating. However, since the samples of Bar, Can, Box ramens are low, we might neglect them at this moment.</p>
 </div>
 <div id="analysis-of-ramen-rating-distribution-by-style" class="section level2">
